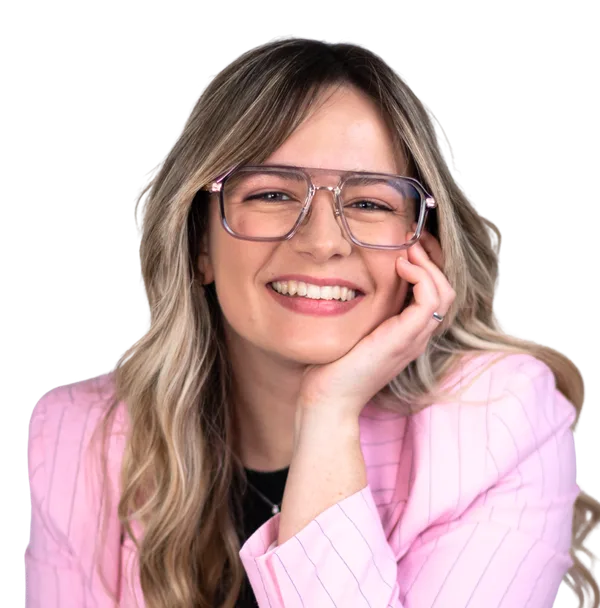
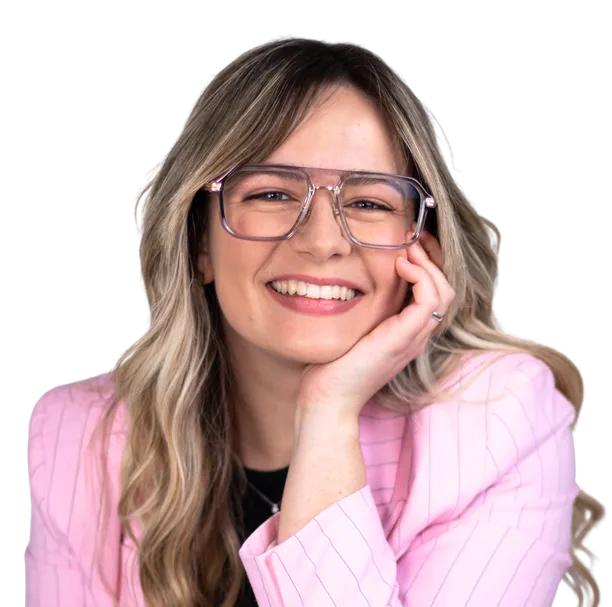
Keep the hero hair uncut and enlarge the mobile marquee
- Home hero: the cut-out photo was cropped at the column edge, which cut
  a few loose hair strands on the right. The crop is now 20px wider and
  the image overflows the column by the same amount.
- Mobile marquee: text goes from 0.72rem to 1rem; it was hard to read.

diff --git a/assets/css/style.css b/assets/css/style.css
@@ -1355,8 +1355,9 @@ textarea:focus-visible,
   }
 
   .strip__track {
-    font-size: 0.72rem;
-    gap: 0.4rem 0.7rem;
+    height: 44px;
+    font-size: 1rem;
+    gap: 0.5rem;
   }
 
   .carousel__btn--prev { left: 0; }
@@ -1413,7 +1414,9 @@ textarea:focus-visible,
 }
 /* Photo box matches the PDF: x 443–948 at 1025px, so it starts 14px left of the column */
 .page-home .hero__media { margin: 0 14px 0 -14px; position: relative; }
-.page-home .hero__media img { height: auto; }
+/* The photo is 960px wide but the column is 940px of it: the extra 20px on the
+   right keep the loose hair strands uncut. */
+.page-home .hero__media img { width: calc(100% * 960 / 940); max-width: none; height: auto; }
 /* Pink glow behind the cut-out photo. It sits on the photo (not on .hero) so it
    follows the photo when the layout stacks on mobile. Centre: 77px into the
    column, 400px down, as measured on the PDF. */

diff --git a/index.html b/index.html
@@ -42,7 +42,7 @@
           <p>Guido <strong>aziende</strong> e <strong>professionisti</strong> a diventare brand riconoscibili attraverso una comunicazione strategica, coerente e costruita per crescere.</p>
         </div>
         <div class="hero__media">
-          <img src="assets/img/home-hero-elenia.webp" srcset="assets/img/home-hero-elenia-600.webp 600w, assets/img/home-hero-elenia.webp 940w" sizes="(max-width: 767px) 320px, 505px" alt="Elenia Bozzato sorridente, mano sul viso, completo rosa" width="940" height="952" />
+          <img src="assets/img/home-hero-elenia.webp" srcset="assets/img/home-hero-elenia-600.webp 612w, assets/img/home-hero-elenia.webp 960w" sizes="(max-width: 767px) 327px, 516px" alt="Elenia Bozzato sorridente, mano sul viso, completo rosa" width="960" height="952" />
         </div>
       </div>
     </section>
